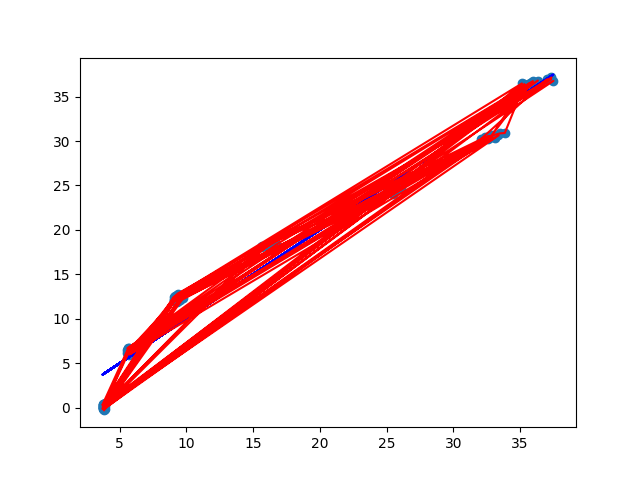
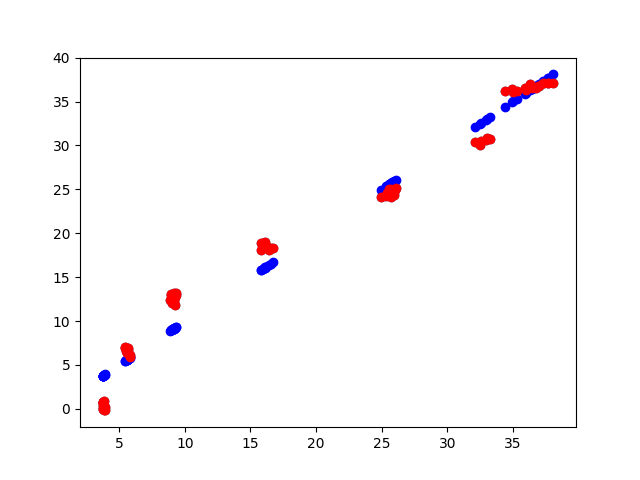
Actualizado la salida de la información

diff --git a/src/linear.py b/src/linear.py
@@ -32,33 +32,46 @@ def linear_model(df):
   # Usar validación cruzada para evaluar el modelo
   model = LinearRegression()
   scores = cross_val_score(model, X_train, y_train, cv=10)
-  print('Cross-Validation Scores: ', scores)
-  print('Mean Cross-Validation Score: ', np.mean(scores))
+
   # Entrena el modelo
   model.fit(X_train, y_train)
+
   # Evalúa el modelo
   y_pred = model.predict(X_test)
+
   # Calcula el error cuadrático medio
   mse = mean_squared_error(y_test, y_pred)
+
   # Calula la raíz del error cuadrático medio
   rmse = np.sqrt(mse)
+
   # Calcula el coeficiente de determinación de la predicción
   r2 = model.score(X_test, y_test)
-  # Imprime los resultados
-  print('Error cuadrático medio: ', mse)
-  print('Raíz del error cuadrático medio: ', rmse)
-  print('Coeficiente de determinación: ', r2)
+
+  # Guarda los resultados
+  results = pd.DataFrame({
+    'y_test': y_test,
+    'y_pred': y_pred,
+    'score': r2,
+    'mse': mse,
+    'rmse': rmse
+  })
+  results.to_excel('../out/linear_model.xlsx', index=False)
+
   # Muestra una gráfica de los resultados
   plt.scatter(y_test, y_pred)
+
   # Valores reales en color azul
-  plt.plot(y_test, y_test, color='blue')
+  plt.scatter(y_test, y_test, color='blue')
+
   # Valores predichos en color rojo
-  plt.plot(y_test, y_pred, color='red')
+  plt.scatter(y_test, y_pred, color='red')
+
   # Guarda la gráfica
   plt.savefig('../figures/linear_model.png')
-  plt.show()
+
   # Guarda el modelo
-  joblib.dump(model, '../save/linear_model.pkl')
+  joblib.dump(model, '../model/linear_model.pkl')
 
 if __name__ == '__main__':
   # Carga los datos
